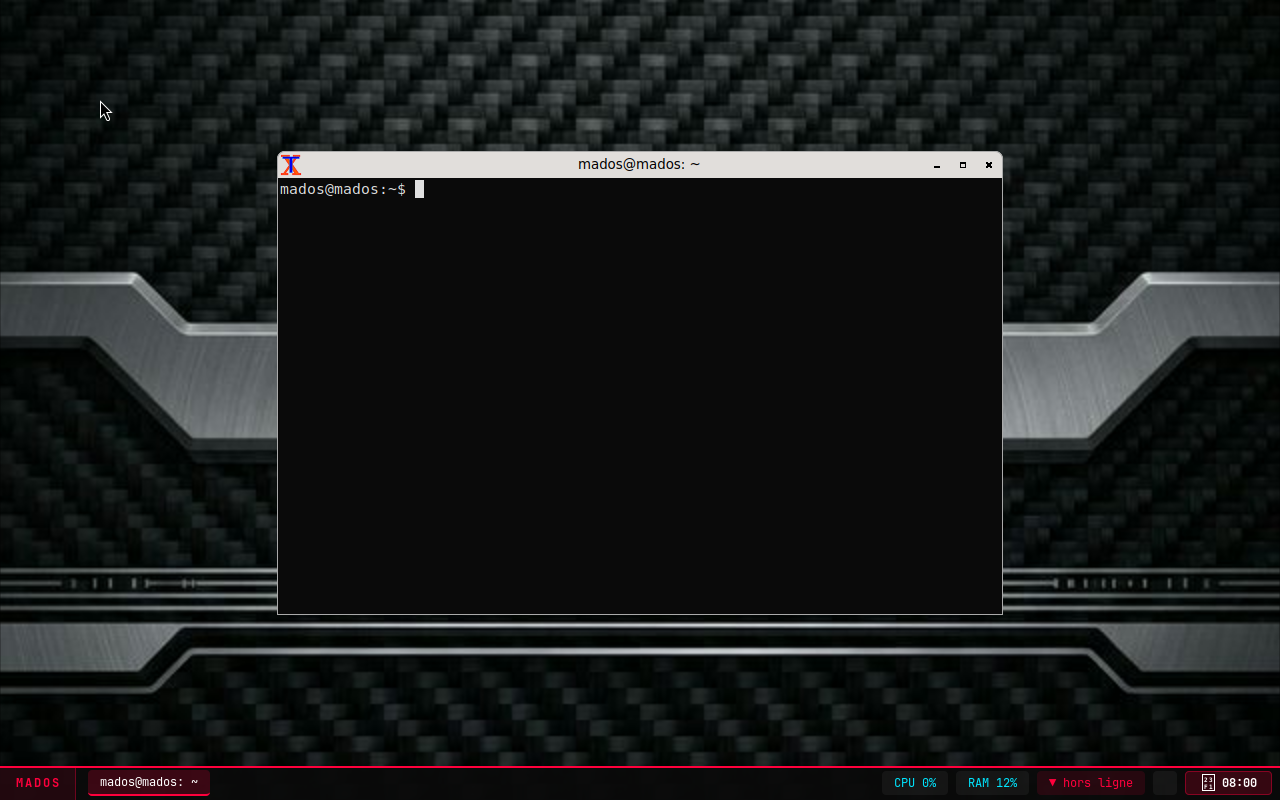
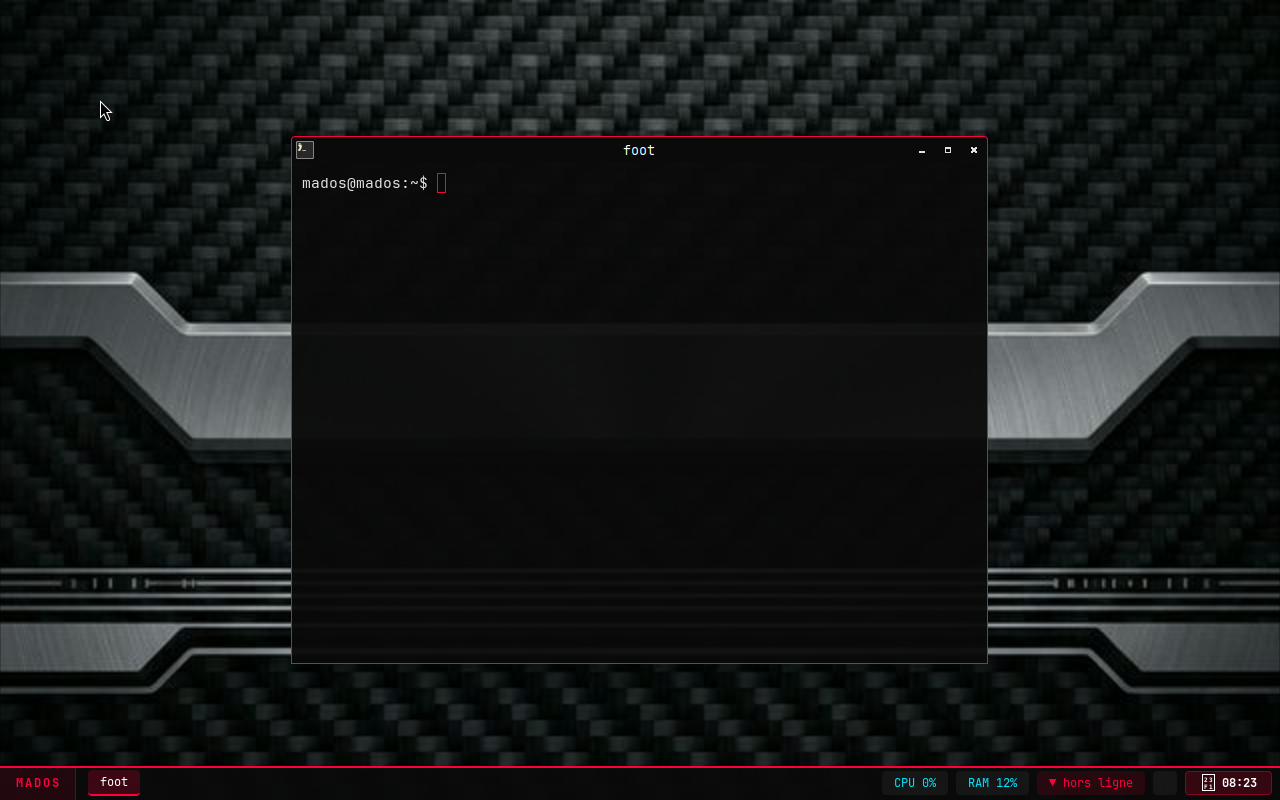
feat(site): la capture du bureau montre l'interface complete
Remplacement par la version finale : au fond MadCarbon et a la barre Waybar
s'ajoutent desormais les decorations de fenetres (titre noir, lisere rouge,
coins arrondis) et le terminal foot translucide, sans l'avertissement de
configuration obsolete qui s'affichait en premiere ligne.

diff --git a/docs/index.html b/docs/index.html
@@ -355,7 +355,7 @@
             <a href="assets/iso_bureau.png" target="_blank" rel="noopener" title="Ouvrir en taille réelle (1280x800)" style="display:block; cursor: zoom-in;"><img src="assets/iso_bureau.png" alt="Le bureau MadOS" loading="lazy" style="width: 100%; height: auto; display: block; border-bottom: 1px solid var(--border-red);"></a>
             <figcaption style="padding: 1rem; color: var(--text-dim); font-size: .9rem;">
                 <b style="color: var(--text-main); display: block; margin-bottom: .4rem;">Le bureau</b>
-                Fond MadCarbon et barre <b>Waybar</b> aux couleurs ROG : logo, fenêtres actives soulignées de rouge, processeur, mémoire, réseau et heure. Tout y est écrit en JSON et CSS dans le dépôt — donc modifiable.
+                Fond MadCarbon, barre de titre noire à liseré rouge, terminal <b>foot</b> translucide et barre <b>Waybar</b> aux couleurs ROG : logo, fenêtres actives soulignées de rouge, processeur, mémoire, réseau et heure. Tout y est écrit en JSON et CSS dans le dépôt — donc modifiable.
             </figcaption>
         </figure>
         <figure style="background: #000; border: 1px solid var(--border-red); border-radius: 8px; overflow: hidden; display: flex; flex-direction: column; margin: 0;">
